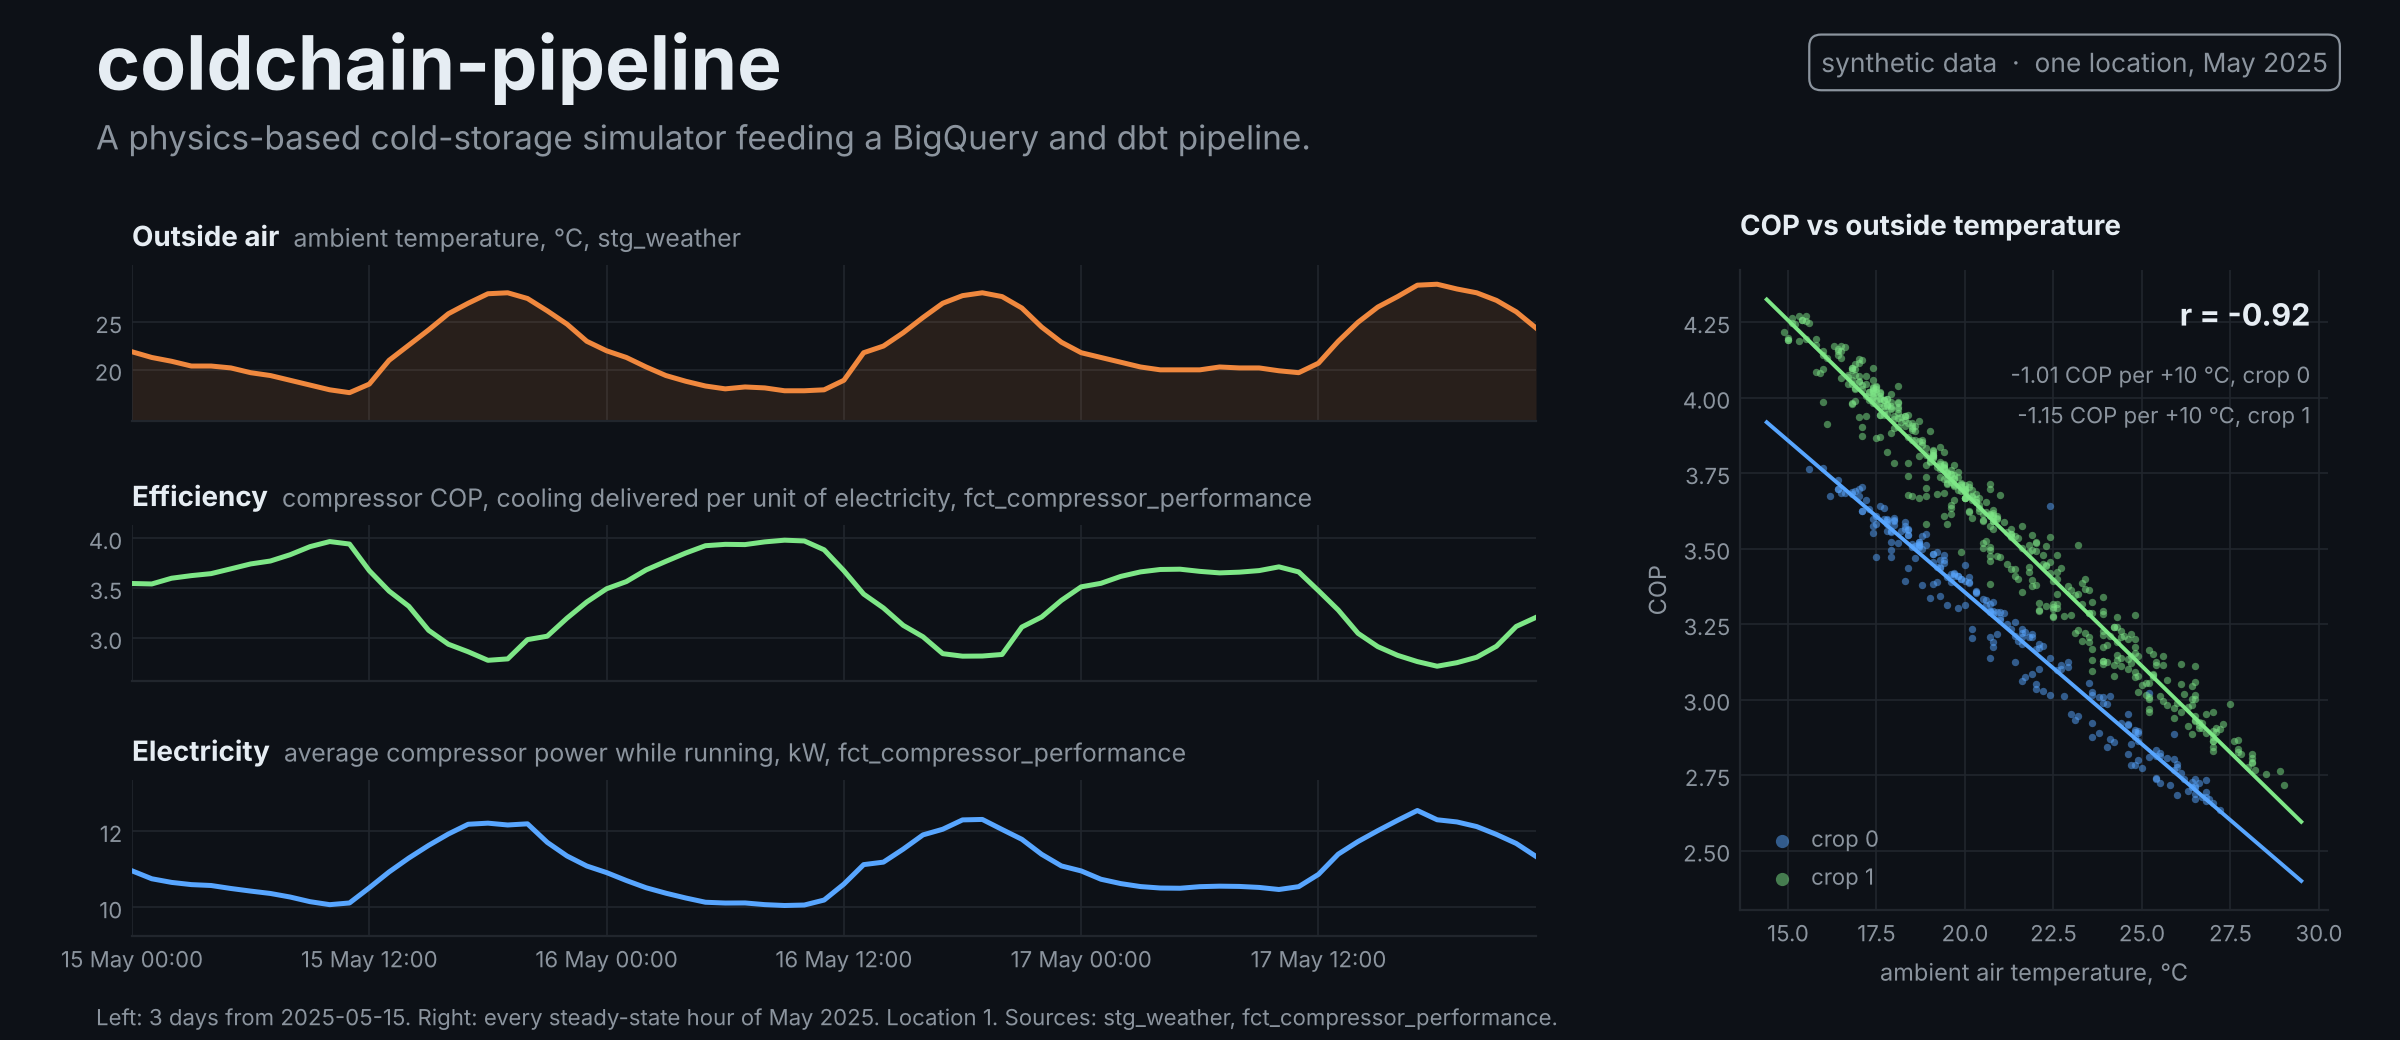
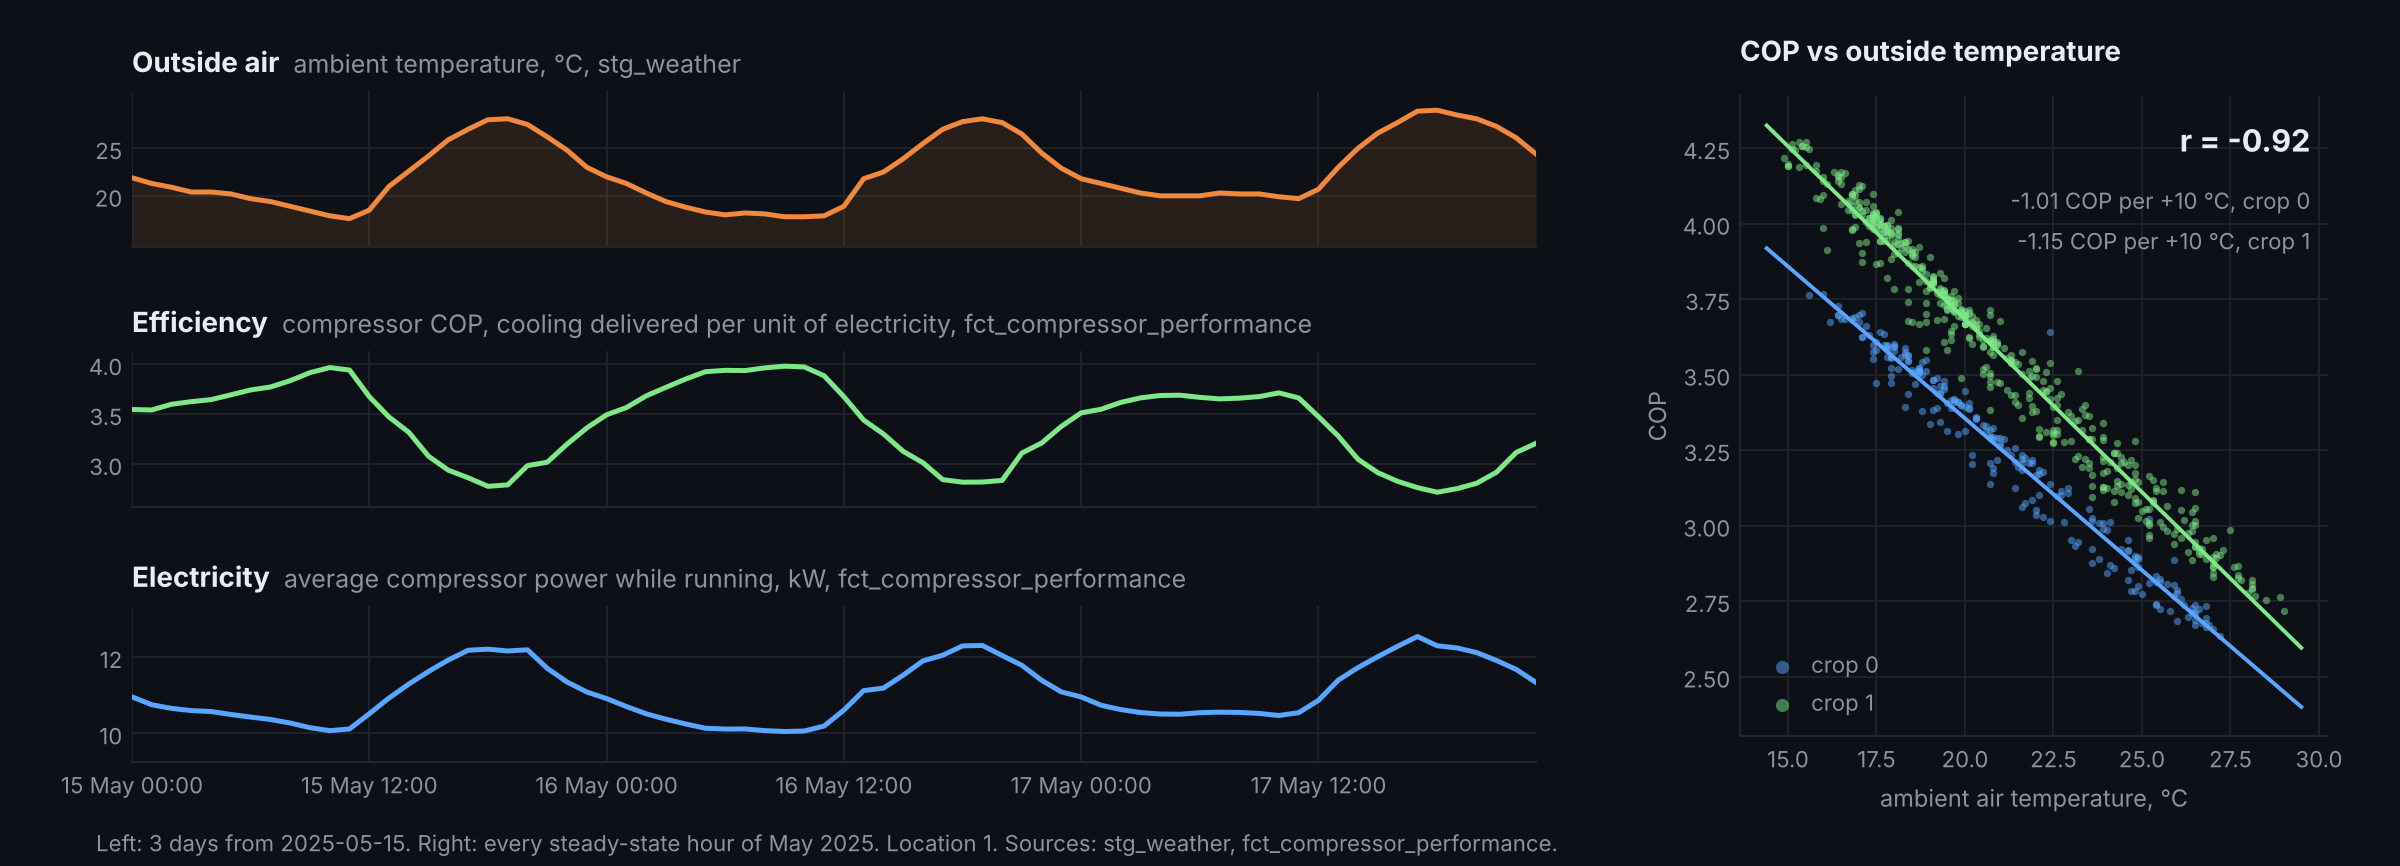
added title to header image, removed title from plots image, re-organized README (#12)

diff --git a/README.md b/README.md
@@ -6,15 +6,39 @@ A synthetic cold-storage data platform: a physics-based simulator generates raw 
 data for a fruit-packing facility's cold rooms, and a dbt + BigQuery project turns it into
 analytics-ready marts.
 
-This repository started as a Data Engineering Zoomcamp project. The submitted version is tagged
-[`zoomcamp-submission`](../../tree/zoomcamp-submission). The current version is a complete, ground-up rewrite engineered for enterprise-scale simulation and robust incremental modeling.
-
 <picture>
   <source media="(prefers-color-scheme: dark)" srcset="docs/img/hero-power-dark.png">
   <img src="docs/img/hero-power-light.png" alt="Three days of outside temperature, compressor efficiency and electricity use, and COP against outside temperature for May 2025" width="100%">
 </picture>
 
 *Hot afternoons cost efficiency: COP falls from about 4.0 to 2.8 and compressor power rises by about 2.5 kW. Every line comes from dbt models in BigQuery (`stg_weather`, `fct_compressor_performance`). The data is synthetic.*
+
+<!-- business section goes here -->
+
+## About the data
+
+The data is synthetic, but the simulator is not a closed refrigeration loop. Besides the physics
+(room heat balance, refrigerant cycle, evaporator frost and defrost, humidity and gas exchange), it
+models a facility that is operated by people and instrumented imperfectly:
+
+- **Stochastic operations**: truck arrivals and dispatches that vary by hour and weekday, doors left
+  open, scheduled downtime, and crop and refrigerant changeovers.
+- **Human behavior**: drivers and employees whose fatigue (time of day, weekday, end of month) and
+  carelessness change their probability of making an error.
+- **Imperfect instrumentation**: sensor noise, per-sensor sampling intervals, background dropout,
+  per-channel outages and facility-wide outages on the sensor tables.
+- **Real weather**: outdoor conditions are real historical data for the configured site
+  ([Open-Meteo](https://open-meteo.com/)), and the indoor climate responds to them through the
+  envelope and the doors.
+
+Because the simulator knows what actually happened, its event ledgers can serve as ground truth for
+checking the marts, which real plant data does not allow (planned, see the roadmap). The simulator
+has not been validated against a real installation; see `simulation/README.md` for assumptions and
+limits.
+
+## Architecture
+
+Green boxes are built and running; dashed grey boxes are planned (see the roadmap).
 
 ```mermaid
 flowchart LR
@@ -75,27 +99,6 @@ flowchart LR
   class WX,SIM,STATE,PQ,LOAD,RAW,DBT,PROD built;
   class GATE,DASH,GCS,KES,WD,CI,KAF,SPK planned;
 ```
-
-## About the data
-
-The data is synthetic, but the simulator is not a closed refrigeration loop. Besides the physics
-(room heat balance, refrigerant cycle, evaporator frost and defrost, humidity and gas exchange), it
-models a facility that is operated by people and instrumented imperfectly:
-
-- **Stochastic operations**: truck arrivals and dispatches that vary by hour and weekday, doors left
-  open, scheduled downtime, and crop and refrigerant changeovers.
-- **Human behavior**: drivers and employees whose fatigue (time of day, weekday, end of month) and
-  carelessness change their probability of making an error.
-- **Imperfect instrumentation**: sensor noise, per-sensor sampling intervals, background dropout,
-  per-channel outages and facility-wide outages on the sensor tables.
-- **Real weather**: outdoor conditions are real historical data for the configured site
-  ([Open-Meteo](https://open-meteo.com/)), and the indoor climate responds to them through the
-  envelope and the doors.
-
-Because the simulator knows what actually happened, its event ledgers can serve as ground truth for
-checking the marts, which real plant data does not allow (planned, see the roadmap). The simulator
-has not been validated against a real installation; see `simulation/README.md` for assumptions and
-limits.
 
 ## What is in the repo
 
@@ -172,6 +175,9 @@ airflow interlock), and the reason codes are decoded in the marts through seeds 
 simulator config. The dbt layer already ingests all of this (staging models, sensor tags, seeds).
 What remains is wiring it into the existing models, which reuses the established patterns more than
 it adds new modelling.
+
+This repository started as a Data Engineering Zoomcamp project. The submitted version is tagged
+[`zoomcamp-submission`](../../tree/zoomcamp-submission). The current version is a complete, ground-up rewrite engineered for enterprise-scale simulation and robust incremental modeling.
 
 ## Roadmap
 
